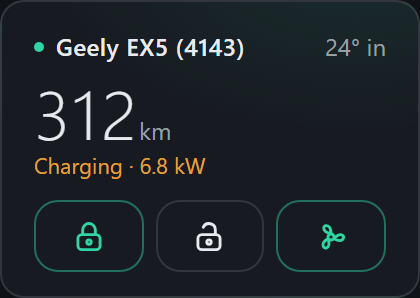
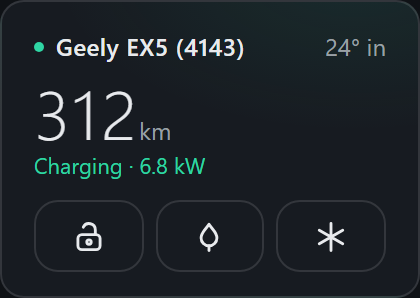
Reorder the top-view card, sharpen its statuses, smarten the mini
The top-view card now reads the way a glance wants it: statuses first,
then the action row, then the car - drawn smaller - with each part's
state printed bold beside it, then the same charging and trip-and-health
detail the cockpit card carries. Part statuses switched from quiet
secondary ink to bold primary so a phone screenshot answers "is anything
open" without zooming.

The mini card grows real muscles: the lock button now follows the car -
a locked car offers only Unlock, an unlocked one only Lock - and climate
became two one-tap presets, quick heat (28°) and quick cool (18°), each
tapping out when its own preset is already running.

The Geely emblem is gone from all cards by request.

Claude-Session: https://claude.ai/code/session_01FKHdFjgidnPWAfMswcmmwA

diff --git a/custom_components/geely_connect/geely-card.js b/custom_components/geely_connect/geely-card.js
@@ -179,21 +179,6 @@
       <circle class="rimring" r="42"/>
       <circle class="hubcap" r="8"/>`;
 
-  /* The Geely emblem, redrawn from the repository's brand/logo.png - six
-   * rounded tiles over the wordmark. Inline vector: no extra request, no
-   * cache to fight, and it inherits the card's crispness at any size. */
-  const GEELY_LOGO = `
-    <svg class="brandmark" viewBox="0 0 120 64" fill="none" aria-hidden="true">
-      <rect x="12" y="4" width="28" height="19" rx="4" fill="#aec2cc"/>
-      <rect x="46" y="4" width="28" height="19" rx="4" fill="#9db4c0"/>
-      <rect x="80" y="4" width="28" height="19" rx="4" fill="#64808f"/>
-      <rect x="12" y="27" width="28" height="19" rx="4" fill="#8fa8b5"/>
-      <rect x="46" y="27" width="28" height="19" rx="4" fill="#64808f"/>
-      <rect x="80" y="27" width="28" height="19" rx="4" fill="#aec2cc"/>
-      <text x="60" y="60" text-anchor="middle" fill="#9aa2ab"
-        font-family="inherit" font-size="15" font-weight="600"
-        letter-spacing="7">GEELY</text>
-    </svg>`;
 
   /* Top view for the cockpit card - the same EX5 proportions (4615 x 1901
    * mm), front pointing up. Every openable part carries its status right
@@ -315,6 +300,9 @@
              <path d="M12.7 11.5 10.4 15h3.2l-2.3 3.5"/>`,
     tire: `<circle cx="12" cy="12" r="8"/><circle cx="12" cy="12" r="3.2"/>
            <path d="M12 4v2.6M12 17.4V20M4 12h2.6M17.4 12H20"/>`,
+    heat: `<path d="M12 4c2 3.2 5 5 5 8.6a5 5 0 0 1-10 0C7 9 10 7.2 12 4z"/>
+           <path d="M12 20.5v-3"/>`,
+    cool: `<path d="M12 3.5v17M4.6 7.75l14.8 8.5M19.4 7.75 4.6 16.25"/>`,
     trip: `<path d="M5 19c6 0 3-7 9-7 4.5 0 3.5-5.5 5-7"/>
            <circle cx="5" cy="19" r="1.6"/><circle cx="19" cy="5" r="1.6"/>`,
     fuel: `<path d="M5.5 20V6a2 2 0 0 1 2-2h5a2 2 0 0 1 2 2v14"/><path d="M4 20h10.5"/>
@@ -421,7 +409,6 @@
     }
     @keyframes geely-shimmer { from { transform: translateX(-100%);} to { transform: translateX(100%);} }
     .unavail { opacity: .5; }
-    .brandmark { display: block; width: 58px; margin: 8px auto 0; opacity: .8; }
     .cartop { display: block; width: 100%; }
     .cartop .paint { fill: var(--geely-car-paint, url(#tp)); stroke: rgba(0,0,0,.18); stroke-width: 1.5; }
     .cartop .glass { fill: url(#tg); }
@@ -443,9 +430,9 @@
     .tv-val { font-size: 17px; font-weight: 500; fill: var(--primary-text-color);
               font-variant-numeric: tabular-nums; }
     .tv-lab { font-size: 10.5px; letter-spacing: .12em; fill: var(--secondary-text-color); }
-    .tv-stat { font-size: 14.5px; fill: var(--secondary-text-color); }
+    .tv-stat { font-size: 15.5px; font-weight: 600; fill: var(--primary-text-color); }
     .tv-lab.onbody { fill: #6b7280; }
-    .tv-stat.onbody { fill: #454c55; }
+    .tv-stat.onbody { fill: #3a4149; }
     .tv-stat.open.onbody { fill: #b97a14; }
     .tv-stat.open { fill: ${AMBER}; font-weight: 600; animation: geely-blink 1.4s ease infinite; }
     .tv-lab.onglass { fill: rgba(255,255,255,.55); }
@@ -620,6 +607,22 @@
           this._call("climate", on ? "turn_off" : "turn_on", "climate");
           break;
         }
+        case "heat": case "cool": {
+          const c = this._st("climate.climate");
+          const on = c && c.state !== "off";
+          const target = c && c.attributes ? NUM({ state: c.attributes.temperature }) : null;
+          const heating = key === "heat";
+          // Tapping the active preset turns the climate off; anything else
+          // sets a decisive target and switches on.
+          if (on && target != null && (heating ? target >= 25 : target <= 20)) {
+            this._call("climate", "turn_off", "climate");
+          } else {
+            this._call("climate", "set_temperature", "climate",
+              { temperature: heating ? 28 : 18 });
+            this._call("climate", "set_hvac_mode", "climate", { hvac_mode: "heat_cool" });
+          }
+          break;
+        }
         case "defrost": this._call("switch", "toggle", "defrost"); break;
         case "vent": this._call("switch", "toggle", "window_ventilation"); break;
         case "find": this._call("button", "press", "find_car"); break;
@@ -630,6 +633,14 @@
     _wire() {
       this.shadowRoot.querySelectorAll("[data-act]").forEach((el) =>
         el.addEventListener("click", () => this._onAction(el.dataset.act)));
+    }
+
+    _row(label, st, opts = {}) {
+      if (!st && !opts.value) return "";
+      const value = opts.value != null ? opts.value
+        : OK(st) ? `${st.state}${UNIT(st) ? " " + UNIT(st) : ""}` : "—";
+      return `<div class="row ${opts.accent ? "accent" : ""} ${opts.warn ? "warn" : ""}">
+          <span>${esc(label)}</span><b>${esc(value)}</b></div>`;
     }
 
     _actBtn(key, label, ic, opts = {}) {
@@ -742,7 +753,7 @@
               <div class="num n ${OK(s.range) ? "" : "unavail"}">${range}<span class="u">km</span></div>
               <div class="micro sub">Range</div>
             </div>
-            <div class="carwrap">${CAR_SVG(s.charging ? "charging" : "", this._openMap())}${GEELY_LOGO}</div>
+            <div class="carwrap">${CAR_SVG(s.charging ? "charging" : "", this._openMap())}</div>
           </div>
           <div class="bar ${low ? "low" : ""} ${s.charging ? "charging" : ""}" style="margin:2px 0 10px">
             <i style="width:${batt === "—" ? 0 : batt}%"></i>
@@ -785,14 +796,6 @@
     }
 
     getCardSize() { return 9; }
-
-    _row(label, st, opts = {}) {
-      if (!st && !opts.value) return "";
-      const value = opts.value != null ? opts.value
-        : OK(st) ? `${st.state}${UNIT(st) ? " " + UNIT(st) : ""}` : "—";
-      return `<div class="row ${opts.accent ? "accent" : ""} ${opts.warn ? "warn" : ""}">
-          <span>${esc(label)}</span><b>${esc(value)}</b></div>`;
-    }
 
     _render() {
       if (!this._prefix) return this._missing();
@@ -889,7 +892,7 @@
             <i style="width:${batt === "—" ? 0 : batt}%"></i>
           </div>
 
-          <div class="carwrap">${CAR_SVG(s.charging ? "charging" : "", this._openMap())}${GEELY_LOGO}</div>
+          <div class="carwrap">${CAR_SVG(s.charging ? "charging" : "", this._openMap())}</div>
 
           <div class="actions" style="margin-top:8px">
             ${this._actBtn("lock", "Lock", "lock", { on: s.locked && s.locked.state === "locked" })}
@@ -1033,6 +1036,10 @@
       const power = NUM(this._st("sensor.charging_power"));
       const locked = s.locked && s.locked.state === "locked";
       const climateOn = s.climate && s.climate.state !== "off";
+      const target = s.climate && s.climate.attributes
+        ? NUM({ state: s.climate.attributes.temperature }) : null;
+      const heatOn = climateOn && target != null && target >= 25;
+      const coolOn = climateOn && target != null && target <= 20;
       const online = this._st("binary_sensor.connected");
       const statusLine = s.charging
         ? `Charging${power != null ? " · " + power.toFixed(1) + " kW" : ""}`
@@ -1070,12 +1077,14 @@
           </div>
           <div class="mid">
             <span class="num n ${OK(s.range) ? "" : "unavail"}">${range}</span><span class="u">km</span>
-            <div class="status ${s.charging ? "charging" : ""} ${s.doorsOpen.length ? "warn" : ""}">${esc(statusLine)}</div>
+            <div class="status ${s.charging ? "charging" : s.doorsOpen.length ? "warn" : ""}">${esc(statusLine)}</div>
           </div>
           <div class="actions">
-            ${this._actBtn("lock", "Lock", "lock", { on: locked })}
-            ${this._actBtn("unlock", "Unlock", "unlock")}
-            ${this._actBtn("climate", "Climate", "climate", { on: climateOn })}
+            ${locked
+              ? this._actBtn("unlock", "Unlock", "unlock")
+              : this._actBtn("lock", "Lock", "lock")}
+            ${this._actBtn("heat", "Heat", "heat", { on: heatOn })}
+            ${this._actBtn("cool", "Cool", "cool", { on: coolOn })}
           </div>
         </div>`;
       this._wire();
@@ -1086,18 +1095,25 @@
 
   class GeelyCardTop extends GeelyCardBase {
     _watched() {
-      return ["sensor.battery", "sensor.electric_range", "sensor.charging_power",
-        "sensor.interior_temperature", "sensor.exterior_temperature",
-        "sensor.tire_front_left", "sensor.tire_front_right",
-        "sensor.tire_rear_left", "sensor.tire_rear_right",
-        "lock.doors", "climate.climate", "switch.defrost",
-        "switch.window_ventilation", "cover.sunroof",
+      return ["sensor.battery", "sensor.electric_range", "sensor.charger_connection",
+        "sensor.charging_power", "sensor.time_to_full_charge", "sensor.charge_complete",
+        "sensor.range_at_full_charge", "sensor.interior_temperature",
+        "sensor.exterior_temperature", "sensor.tire_front_left",
+        "sensor.tire_front_right", "sensor.tire_rear_left", "sensor.tire_rear_right",
+        "sensor.total_mileage", "sensor.trip_meter", "sensor.average_consumption",
+        "sensor.efficiency", "sensor.12v_battery", "sensor.days_to_service",
+        "sensor.distance_to_service", "sensor.last_updated", "sensor.speed",
+        "sensor.fuel_level", "sensor.fuel_range", "sensor.combined_range",
+        "sensor.pack_power", "lock.doors", "climate.climate", "switch.defrost",
+        "switch.window_ventilation", "switch.scheduled_charging",
+        "time.scheduled_charging_start", "time.scheduled_charging_end",
+        "cover.sunroof",
         "binary_sensor.door_driver", "binary_sensor.door_passenger",
         "binary_sensor.door_rear_left", "binary_sensor.door_rear_right",
         "binary_sensor.trunk", "binary_sensor.hood", "binary_sensor.connected"];
     }
 
-    getCardSize() { return 8; }
+    getCardSize() { return 10; }
 
     _render() {
       if (!this._prefix) return this._missing();
@@ -1110,8 +1126,15 @@
       const vent = this._st("switch.window_ventilation");
       const online = this._st("binary_sensor.connected");
       const power = this._st("sensor.charging_power");
+      const days = this._st("sensor.days_to_service");
       const interior = this._st("sensor.interior_temperature");
       const exterior = this._st("sensor.exterior_temperature");
+      const schedOn = this._st("switch.scheduled_charging");
+      const schedA = this._st("time.scheduled_charging_start");
+      const schedB = this._st("time.scheduled_charging_end");
+      const fuelRange = this._st("sensor.fuel_range");
+      const combined = this._st("sensor.combined_range");
+      const hybrid = !!this._st("sensor.fuel_level");
       const speed = NUM(this._st("sensor.speed"));
 
       const isOpen = (suffix) => {
@@ -1128,6 +1151,9 @@
         : speed != null && speed > 0 ? `Driving · ${Math.round(speed)} km/h`
         : s.doorsOpen.length ? `${s.doorsOpen.length} opening${s.doorsOpen.length > 1 ? "s" : ""} open`
         : s.locked && s.locked.state === "locked" ? "Parked · Locked" : "Parked";
+      const sched = schedA && schedB && OK(schedA) && OK(schedB)
+        ? `${schedA.state.slice(0, 5)}–${schedB.state.slice(0, 5)}${schedOn && schedOn.state === "on" ? "" : " (off)"}`
+        : null;
 
       const d = {
         tires: { fl: tire("front_left"), fr: tire("front_right"),
@@ -1153,8 +1179,19 @@
         .hero .side { margin-left:auto; text-align:right; }
         .hero .side .num { font-size:24px; }
         .hero .side .u2 { font-size:11px; color: var(--secondary-text-color); }
-        .carwrap { margin:8px auto 0; max-width:330px; }
+        .carwrap { margin:12px auto 0; max-width:250px; }
         .actions { display:grid; grid-template-columns:repeat(4, 1fr); margin-top:10px; }
+        .grid { display:grid; grid-template-columns:1fr 1fr; gap:2px 26px; }
+        .row { display:flex; justify-content:space-between; align-items:baseline; gap:8px;
+               font-size:12.5px; padding:5px 0; color: var(--secondary-text-color); }
+        .row span { overflow:hidden; text-overflow:ellipsis; white-space:nowrap; }
+        .row b { font-weight:500; color: var(--primary-text-color);
+                 font-variant-numeric: tabular-nums; white-space:nowrap; }
+        .row.accent b { color:${ACCENT}; }
+        .row.warn b { color:${AMBER}; }
+        .sec { margin-top:2px; }
+        .footer { display:flex; justify-content:space-between; margin-top:10px; }
+        .footer .micro { letter-spacing:.1em; }
         </style>
         <div class="shell">
           <div class="head">
@@ -1171,7 +1208,7 @@
           <div class="hero">
             <div>
               <div class="num n ${OK(s.range) ? "" : "unavail"}">${range}<span class="u">km</span></div>
-              <div class="micro" style="margin-top:5px">Range</div>
+              <div class="micro" style="margin-top:5px">${hybrid ? "Electric range" : "Range"}</div>
             </div>
             <div class="side">
               ${OK(interior) ? `<div class="num">${Math.round(NUM(interior))}°</div>
@@ -1182,8 +1219,6 @@
             <i style="width:${batt === "—" ? 0 : batt}%"></i>
           </div>
 
-          <div class="carwrap">${CAR_TOP_SVG(s.charging ? "charging" : "", d)}${GEELY_LOGO}</div>
-
           <div class="actions">
             ${this._actBtn("lock", "Lock", "lock", { on: s.locked && s.locked.state === "locked" })}
             ${this._actBtn("unlock", "Unlock", "unlock")}
@@ -1193,6 +1228,57 @@
             ${this._actBtn("trunk", "Trunk", "trunk")}
             ${this._actBtn("find", "Find", "find")}
             ${this._actBtn("refresh", "Sync", "refresh")}
+          </div>
+
+          <div class="carwrap">${CAR_TOP_SVG(s.charging ? "charging" : "", d)}</div>
+
+          <hr class="hairline">
+          <p class="micro">${icon("charge")} Charging</p>
+          <div class="grid sec">
+            ${this._row("Charger", s.conn)}
+            ${this._row("Power", power, { accent: s.charging })}
+            ${this._row("Time to full", this._st("sensor.time_to_full_charge"))}
+            ${this._row("Complete at", this._st("sensor.charge_complete"), {
+              value: (() => { const st = this._st("sensor.charge_complete");
+                if (!OK(st)) return "—";
+                const dte = new Date(st.state);
+                return isNaN(dte) ? st.state : dte.toLocaleTimeString([], { hour: "2-digit", minute: "2-digit" });
+              })() })}
+            ${this._row("Range at 100%", this._st("sensor.range_at_full_charge"))}
+            ${sched ? this._row("Schedule", null, { value: sched }) : ""}
+            ${this._row("Pack power", this._st("sensor.pack_power"))}
+          </div>
+
+          ${hybrid ? `
+          <hr class="hairline">
+          <p class="micro">${icon("fuel")} Fuel</p>
+          <div class="grid sec">
+            ${this._row("Fuel level", this._st("sensor.fuel_level"))}
+            ${this._row("Fuel range", fuelRange)}
+            ${this._row("Combined range", combined, { accent: true })}
+          </div>` : ""}
+
+          <hr class="hairline">
+          <p class="micro">${icon("trip")} Trip &amp; health</p>
+          <div class="grid sec">
+            ${this._row("Odometer", this._st("sensor.total_mileage"))}
+            ${this._row("Trip meter", this._st("sensor.trip_meter"))}
+            ${this._row("Consumption", this._st("sensor.average_consumption"))}
+            ${this._row("Efficiency", this._st("sensor.efficiency"))}
+            ${this._row("12 V battery", this._st("sensor.12v_battery"))}
+            ${this._row("Service in", days, {
+              warn: OK(days) && NUM(days) != null && NUM(days) <= 30,
+              value: OK(days) ? `${days.state} d / ${OK(this._st("sensor.distance_to_service"))
+                ? this._st("sensor.distance_to_service").state + " km" : "—"}` : "—" })}
+          </div>
+
+          <div class="footer">
+            <span class="micro">Geely Connect</span>
+            <span class="micro">${(() => { const st = this._st("sensor.last_updated");
+              if (!OK(st)) return "";
+              const dte = new Date(st.state);
+              return isNaN(dte) ? "" : "Synced " + dte.toLocaleTimeString([], { hour: "2-digit", minute: "2-digit" });
+            })()}</span>
           </div>
         </div>`;
       this._wire();
@@ -1351,7 +1437,7 @@
       {
         type: "geely-card-mini",
         name: "Geely Card (mini)",
-        description: "A small square: range, cabin temperature, status, and lock / unlock / climate.",
+        description: "A small square: range, cabin temperature, status, a lock button that follows the car, and quick heat / cool.",
         preview: true,
       },
       {
